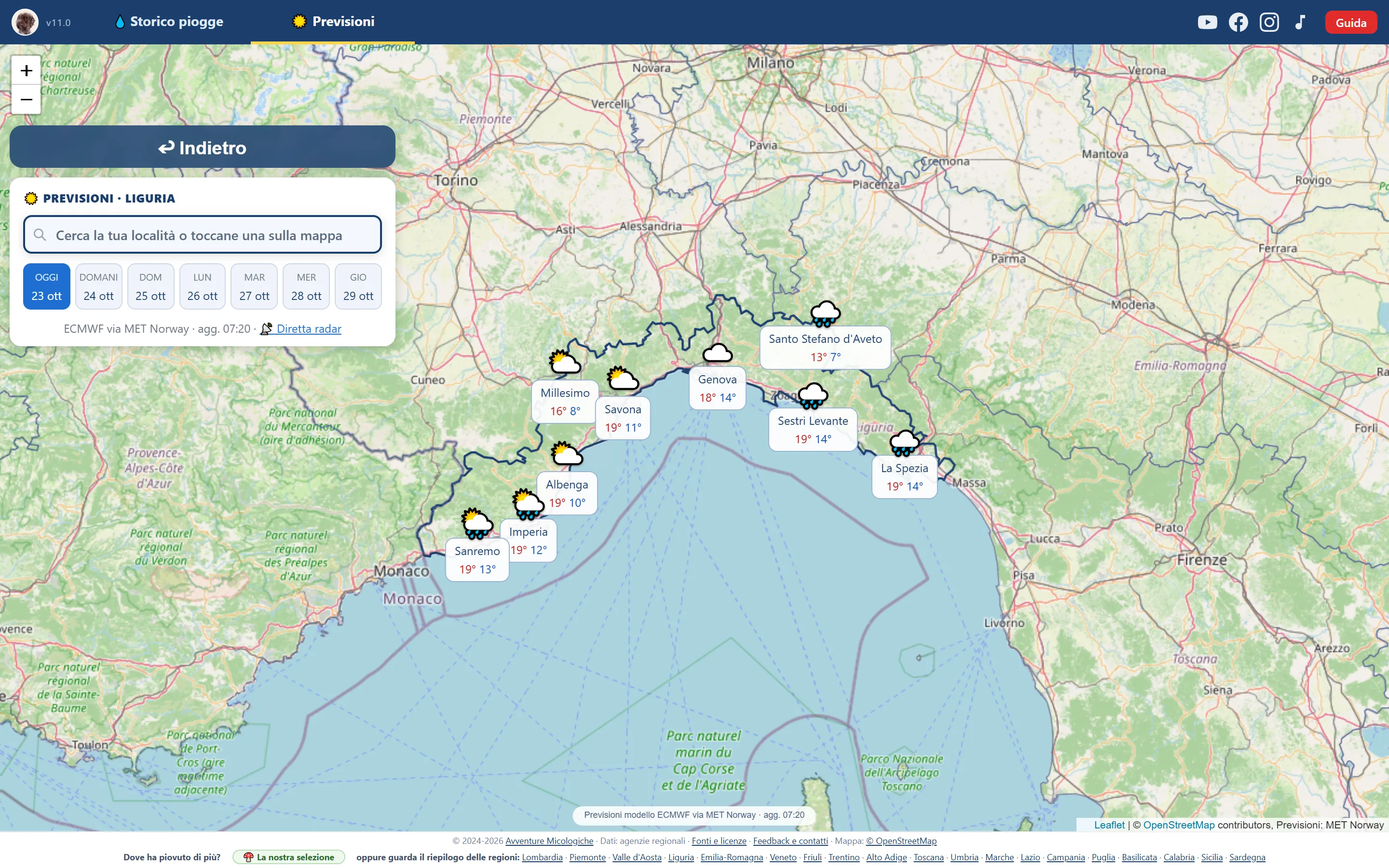
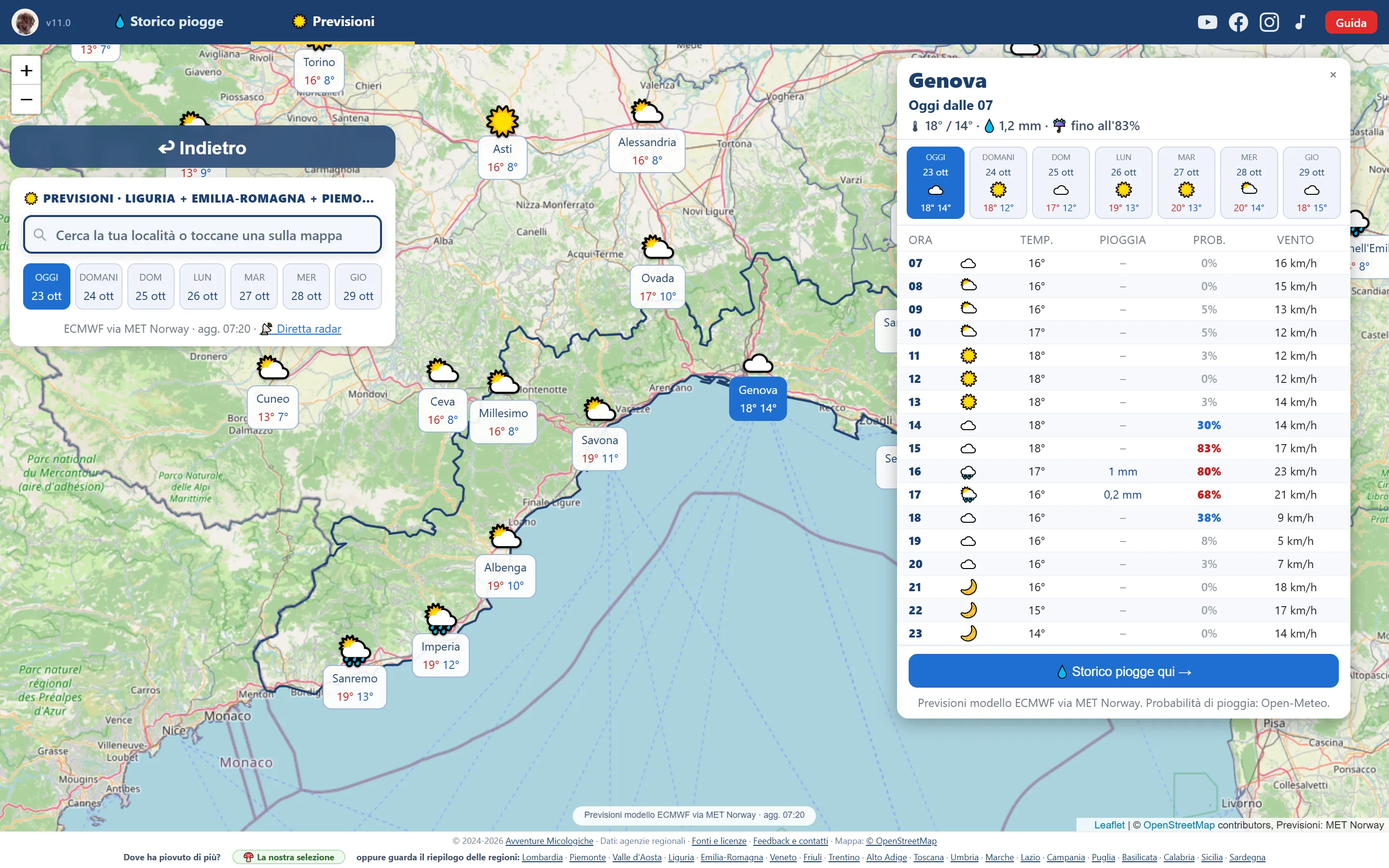
home v2: film una volta sola con «Riguarda», menu allineato, satellite d'estate, previsioni con la tabella dei giorni

diff --git a/studio-apple/home-v2/index.html b/studio-apple/home-v2/index.html
@@ -27,7 +27,7 @@ window.SCRITTE_FILM = {
     { da: 0.7,  a: 2.5,  occhiello: 'Misure vere',            testo: 'Ogni punto, un pluviometro.' },  // i pluviometri si accendono
     { da: 3.5,  a: 6.1,  occhiello: 'Scegli le date e guarda', testo: 'La pioggia caduta davvero.' },  // la pioggia sale, pausa
     { da: 7.9,  a: 10.1, occhiello: 'Poi, i boschi', testo: 'Faggete, castagneti, abetaie.' },// boschi e satellite, telecamera ferma
-    { da: 14.2, a: 20.9, occhiello: 'Dal satellite',          testo: 'Fino alle chiome.' }            // lo zoom: il retino sparisce
+    { da: 14.2, a: 99,   occhiello: 'Dal satellite',          testo: 'Fino alle chiome.' }            // lo zoom: il retino sparisce
   ]
 };
 </script>
@@ -98,7 +98,7 @@ a { color: var(--color-link-dark); }
 }
 .nav .in { max-width: none; margin: 0; padding: 0 clamp(18px, 2.4vw, 40px); height: var(--nav-h); display: flex; align-items: center; gap: 30px; }
 .nav .brand { font-family: var(--font-display); font-size: 21px; font-weight: 600; color: #f5f5f7; text-decoration: none; letter-spacing: -0.015em; white-space: nowrap; margin-right: auto; }
-.nav .links { display: flex; gap: 32px; }
+.nav .links { display: flex; align-items: center; gap: 32px; }
 .nav .links a { font-size: 13px; color: rgba(255, 255, 255, 0.8); text-decoration: none; white-space: nowrap; transition: color .24s cubic-bezier(0.4, 0, 0.6, 1); }
 .nav .links a:hover { color: #fff; }
 /* YouTube nel menu: il bottone rosso «Iscriviti» col logo, l'unica cosa colorata della barra */
@@ -143,9 +143,14 @@ a { color: var(--color-link-dark); }
   font-weight: 300; letter-spacing: -0.022em; color: #fff; max-width: 16em; margin: 0 auto; text-wrap: balance;
   text-shadow: 0 2px 30px rgba(0, 0, 0, 0.55), 0 0 1px rgba(0, 0, 0, 0.4); }
 .scritta .parola { display: inline-block; opacity: 0; will-change: opacity, transform, filter; }
-.vbtn .i-play { display: none; }
+.vbtn .i-play, .vbtn .i-rifai, .vbtn .t-rifai { display: none; }
 .vbtn.paused .i-play { display: block; }
 .vbtn.paused .i-pause { display: none; }
+/* a film finito il tondo si allarga in una pillola «Riguarda», come su apple.com */
+.vbtn.fine { width: auto; padding: 0 16px 0 13px; border-radius: 980px; display: inline-flex; align-items: center; gap: 8px; font-size: 14px; }
+.vbtn.fine .i-pause, .vbtn.fine .i-play { display: none; }
+.vbtn.fine .i-rifai { display: block; width: 15px; height: 15px; }
+.vbtn.fine .t-rifai { display: inline; }
 .vbtn[hidden] { display: none; }
 
 /* ── 2. I CAPITOLI: uno per schermata, testo corto e UNA immagine ── */
@@ -283,8 +288,8 @@ footer .copy { margin-top: 24px; padding-top: 16px; border-top: 1px solid var(--
 
 <!-- 1. IL FILM: la mappa vera, senza interfaccia. Il testo lo mette la pagina, non il video. -->
 <section class="film" aria-label="La mappa delle piogge">
-  <video id="film" poster="../film/apertura-poster.webp" muted loop playsinline autoplay preload="auto" width="1920" height="1080"
-         aria-label="L'Italia al buio con i pallini dei pluviometri. Da lì nasce la pioggia vera di trenta giorni, che si accumula; poi la telecamera scende sulla Liguria, la pioggia lascia il posto ai boschi, sotto compare il satellite fino alle chiome, e alla fine le previsioni dei capoluoghi.">
+  <video id="film" poster="../film/apertura-poster.webp" muted playsinline autoplay preload="auto" width="1920" height="1080"
+         aria-label="L'Italia al buio: si accendono i pallini dei pluviometri e sale la pioggia di trenta giorni; poi la pioggia lascia il posto ai boschi sopra la foto dal satellite, e la telecamera scende fino alle chiome degli alberi.">
     <source src="../film/apertura-720.mp4" type="video/mp4" media="(max-width: 734px)">
     <source src="../film/apertura-1080.mp4" type="video/mp4">
   </video>
@@ -320,7 +325,7 @@ footer .copy { margin-top: 24px; padding-top: 16px; border-top: 1px solid var(--
   </div>
   <!-- le scritte del film: i tempi stanno in cima alla pagina (SCRITTE_FILM) -->
   <div class="scritte" aria-hidden="true"></div>
-  <button class="vbtn" type="button" aria-label="Metti in pausa il filmato" hidden><svg class="i-pause" viewBox="0 0 14 14" aria-hidden="true"><rect x="2.5" y="2" width="3" height="10" rx="1" fill="currentColor"/><rect x="8.5" y="2" width="3" height="10" rx="1" fill="currentColor"/></svg><svg class="i-play" viewBox="0 0 14 14" aria-hidden="true"><path d="M4 2.2v9.6L12 7z" fill="currentColor"/></svg></button>
+  <button class="vbtn" type="button" aria-label="Metti in pausa il filmato" hidden><svg class="i-pause" viewBox="0 0 14 14" aria-hidden="true"><rect x="2.5" y="2" width="3" height="10" rx="1" fill="currentColor"/><rect x="8.5" y="2" width="3" height="10" rx="1" fill="currentColor"/></svg><svg class="i-play" viewBox="0 0 14 14" aria-hidden="true"><path d="M4 2.2v9.6L12 7z" fill="currentColor"/></svg><svg class="i-rifai" viewBox="0 0 16 16" aria-hidden="true"><path d="M8 2.5a5.5 5.5 0 1 1-5.3 4" fill="none" stroke="currentColor" stroke-width="1.8" stroke-linecap="round"/><path d="M1.2 3.2 2.9 7l3.6-1.9z" fill="currentColor"/></svg><span class="t-rifai">Riguarda</span></button>
 </section>
 
 <!-- 2. I CAPITOLI: pioggia, scheda, boschi, satellite, previsioni. Ognuno ha il suo link alla mappa gia' in quel modo. -->
@@ -379,14 +384,15 @@ footer .copy { margin-top: 24px; padding-top: 16px; border-top: 1px solid var(--
     <p class="lead sub">Ti avvicini fino a vedere gli alberi uno per uno, i sentieri e le case.</p>
     <p class="lead apri"><a href="https://precipitazioni.avventuremicologiche.it/?boschi=1&amp;sat=1&amp;r=liguria" target="_blank" rel="noopener">Apri il satellite</a></p>
   </div>
-  <!-- 23/10, sua richiesta: il satellite al massimo dettaglio, un pezzo di bosco e qualche casa (scatto della mappa vera a
-       2880 px, zoom 18, boschi al 10%). Il nome del paese non si scrive: mai legare le foto a un luogo. -->
+  <!-- 23/10, sua richiesta: il satellite al massimo dettaglio, d'ESTATE, chiome e qualche casa (scatto della mappa vera a
+       2880 px, zoom 18, boschi al 10%; scelto fra quattro paesi quello con la foto Esri estiva). Il nome del paese non si
+       scrive: mai legare le foto a un luogo. -->
   <figure class="su dopo ritaglio">
     <img src="../film/foto/satellite-vera-1440.webp"
          srcset="../film/foto/satellite-vera-1440.webp 1440w, ../film/foto/satellite-vera-2880.webp 2880w"
          sizes="(max-width: 734px) calc(100vw - 24px), min(1136px, calc(100vw - 44px))" width="2880" height="1800" loading="lazy" style="object-position: 64% 50%"
-         alt="La mappa col satellite al massimo dettaglio: i tetti di un paese di montagna, le strade, le macchine parcheggiate e il bosco intorno, albero per albero.">
-    <figcaption class="small">Il satellite al massimo dettaglio: un paese di montagna e il bosco intorno.</figcaption>
+         alt="La mappa col satellite al massimo dettaglio, d'estate: il bosco fitto, chioma per chioma, e in basso i tetti di un paese di montagna con la strada e un prato.">
+    <figcaption class="small">Il satellite al massimo dettaglio: il bosco, chioma per chioma, e le prime case del paese.</figcaption>
   </figure>
 </section>
 
@@ -396,13 +402,15 @@ footer .copy { margin-top: 24px; padding-top: 16px; border-top: 1px solid var(--
     <p class="lead sub">Il tempo dei prossimi sette giorni, ora per ora: temperatura, pioggia, probabilità e vento.</p>
     <p class="lead apri"><a href="https://precipitazioni.avventuremicologiche.it/?r=liguria&amp;m=prev" target="_blank" rel="noopener">Apri le previsioni</a></p>
   </div>
-  <!-- 23/10: le previsioni vere della mappa (scatto a 2880 px della mappa in locale, previsioni chieste al sito vero) -->
+  <!-- 23/10: le previsioni vere della mappa (scatto a 2880 px della mappa in locale, previsioni chieste al sito vero),
+       zoom 9 con Liguria e Piemonte e la scheda di Genova aperta: la tabella dei sette giorni e delle ore. Avvicinandosi
+       non compaiono altre localita' (sono i capoluoghi), anzi se ne vedono meno. -->
   <figure class="su dopo ritaglio">
     <img src="../film/foto/previsioni-vera-1440.webp"
          srcset="../film/foto/previsioni-vera-1440.webp 1440w, ../film/foto/previsioni-vera-2880.webp 2880w"
-         sizes="(max-width: 734px) calc(100vw - 24px), min(1136px, calc(100vw - 44px))" width="2880" height="1800" loading="lazy" style="object-position: 58% 50%"
-         alt="Le previsioni come sono sul sito: la Liguria con le icone del tempo e le temperature massime e minime di Sanremo, Imperia, Albenga, Savona, Genova, Sestri Levante e La Spezia, e a sinistra i sette giorni da scegliere.">
-    <figcaption class="small">Le previsioni come sono sul sito: sette giorni, località per località.</figcaption>
+         sizes="(max-width: 734px) calc(100vw - 24px), min(1136px, calc(100vw - 44px))" width="2880" height="1800" loading="lazy" style="object-position: 72% 50%"
+         alt="Le previsioni come sono sul sito: Liguria e Piemonte con le icone del tempo e le temperature di tredici località, e a destra la scheda di Genova con i sette giorni e la tabella ora per ora di temperatura, pioggia, probabilità e vento.">
+    <figcaption class="small">Le previsioni come sono sul sito: tocchi una località e hai i sette giorni, ora per ora.</figcaption>
   </figure>
 </section>
 
@@ -538,25 +546,44 @@ footer .copy { margin-top: 24px; padding-top: 16px; border-top: 1px solid var(--
 })();
 
 /* Il film: tondo pausa/play come su apple.com; fuori dallo schermo si ferma, rientrando riparte
-   (se non l'hai fermato tu). Con «riduci animazioni» resta il poster e il tondo non c'e'. */
+   (se non l'hai fermato tu). Con «riduci animazioni» resta il poster e il tondo non c'e'.
+   23/10, sua scelta: il film gira UNA VOLTA SOLA e si ferma sulle chiome, prima della dissolvenza che nel file
+   riporta al primo fotogramma (da 21,5 s). Il tondo diventa la pillola «Riguarda». */
 (function () {
   var v = document.getElementById('film'), b = document.querySelector('.film .vbtn');
   if (!v || !b) return;
   if (window.matchMedia && matchMedia('(prefers-reduced-motion: reduce)').matches) return;
+  var FINE = 21.4, finito = false;
   b.hidden = false;
   function segna() {
-    b.classList.toggle('paused', v.paused);
-    b.setAttribute('aria-label', v.paused ? 'Avvia il filmato' : 'Metti in pausa il filmato');
+    b.classList.toggle('paused', v.paused && !finito);
+    b.classList.toggle('fine', finito);
+    b.setAttribute('aria-label', finito ? 'Riguarda il filmato' : v.paused ? 'Avvia il filmato' : 'Metti in pausa il filmato');
   }
   function parti() { var p = v.play(); if (p && p.catch) p.catch(segna); }
+  function chiudi() { if (finito) return; finito = true; v.dataset.fermato = '1'; v.pause(); segna(); }
+  function guarda(t) { if (!finito && t >= FINE) chiudi(); }
+  if ('requestVideoFrameCallback' in v) {
+    var giro = function (adesso, meta) { guarda(meta.mediaTime); v.requestVideoFrameCallback(giro); };
+    v.requestVideoFrameCallback(giro);
+  }
+  v.addEventListener('timeupdate', function () { guarda(v.currentTime); });
+  v.addEventListener('ended', chiudi);
   b.addEventListener('click', function () {
+    if (finito) {
+      // da capo; se il server non sa spostarsi nel file (in locale, senza Range) si ricarica il film
+      finito = false; delete v.dataset.fermato; segna();
+      v.currentTime = 0;
+      setTimeout(function () { if (v.currentTime > 1) v.load(); parti(); }, 120);
+      return;
+    }
     if (v.paused) { delete v.dataset.fermato; parti(); } else { v.dataset.fermato = '1'; v.pause(); }
   });
   v.addEventListener('play', segna); v.addEventListener('pause', segna);
   segna();
   if ('IntersectionObserver' in window) {
     new IntersectionObserver(function (voci) {
-      voci.forEach(function (x) { if (x.isIntersecting) { if (!v.dataset.fermato) parti(); } else v.pause(); });
+      voci.forEach(function (x) { if (x.isIntersecting) { if (!v.dataset.fermato) parti(); } else if (!finito) v.pause(); });
     }, { threshold: 0.25 }).observe(v);
   }
 })();
